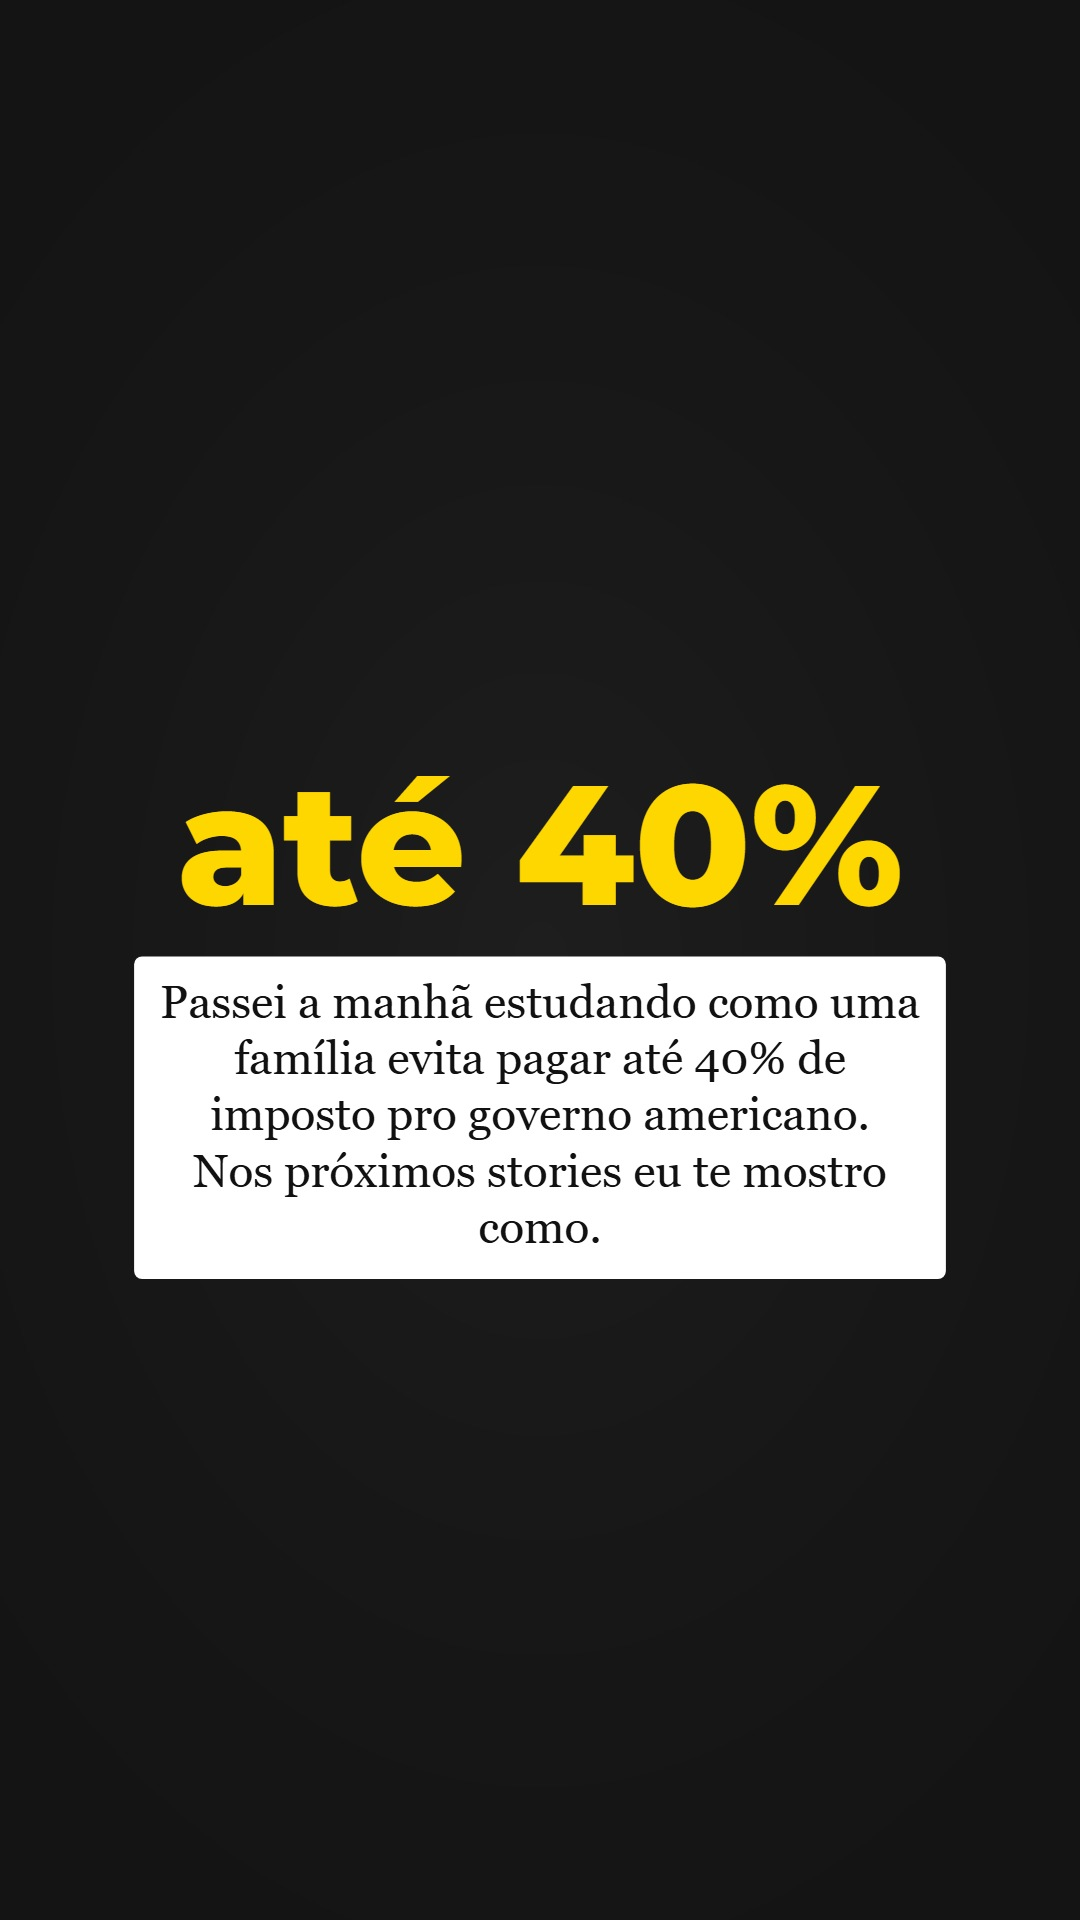
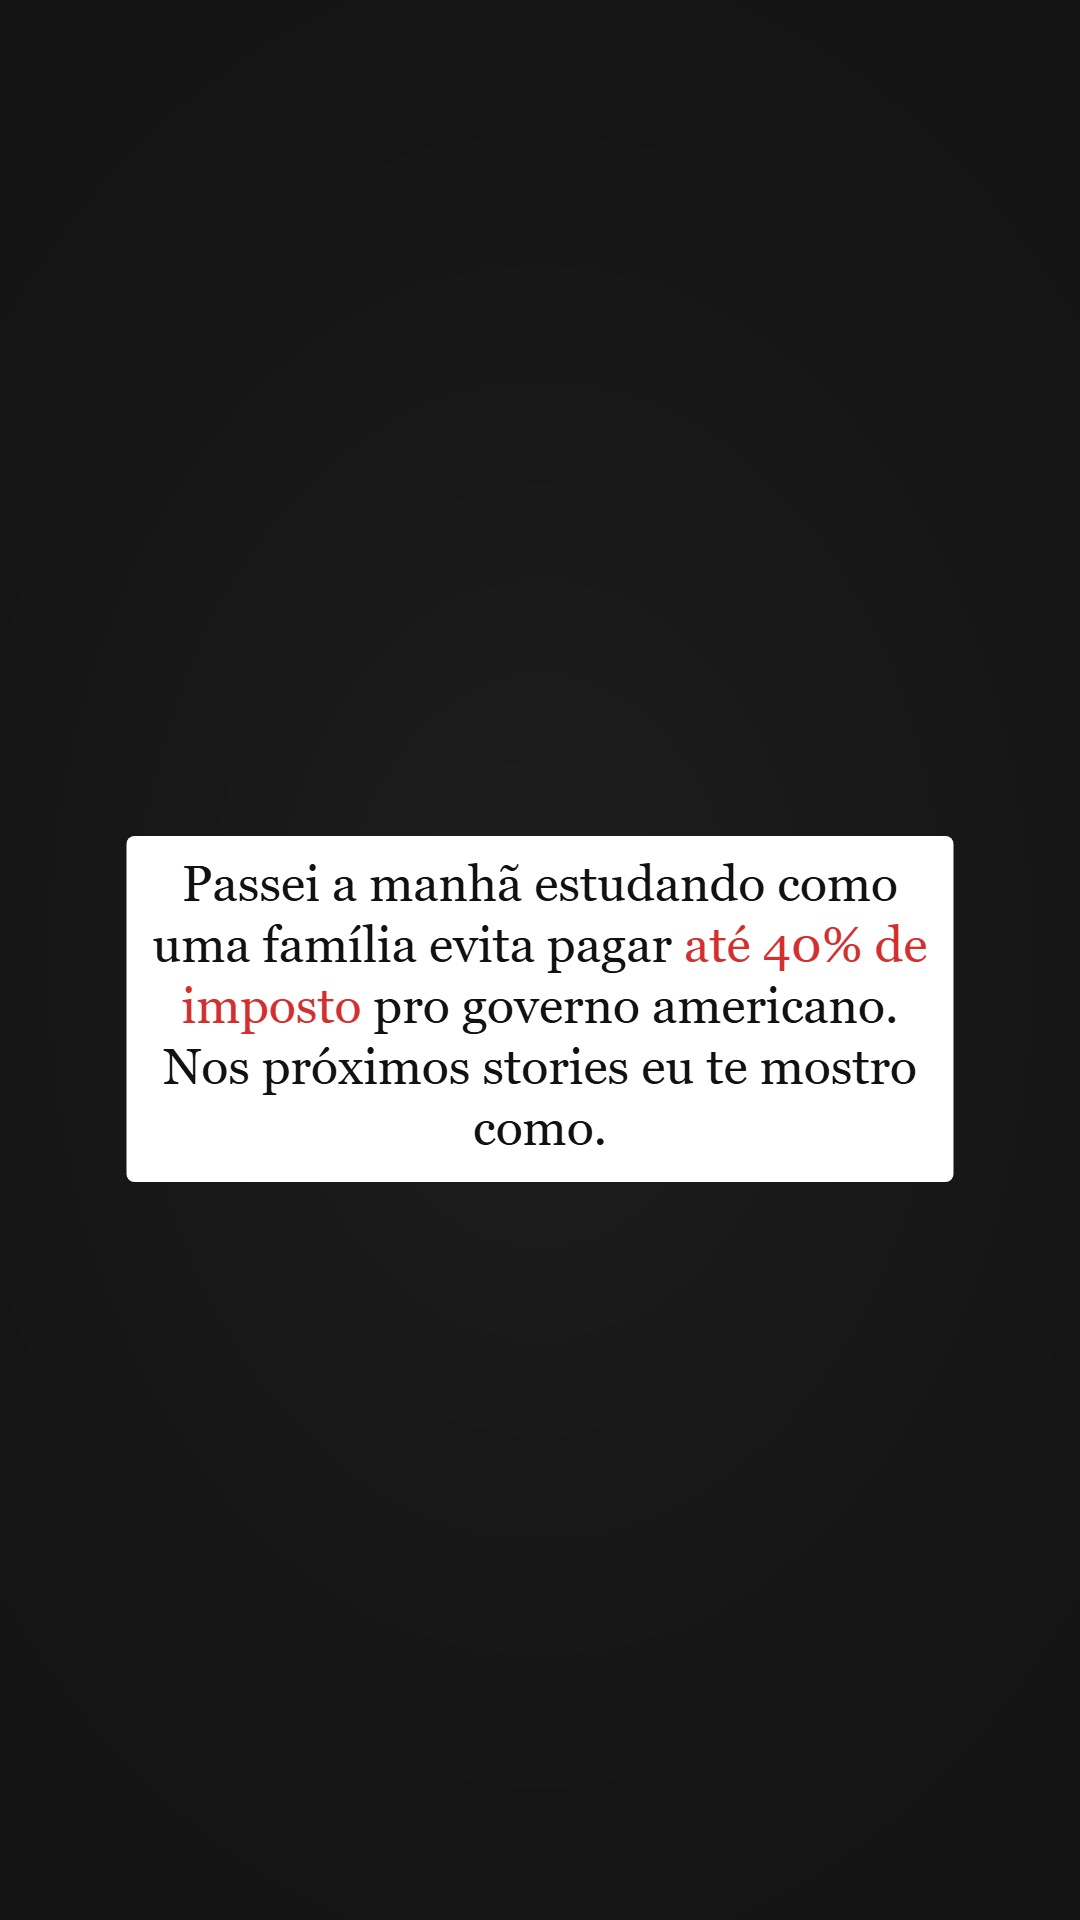
Atualiza o site

Changed region(s): [[0.0917, 0.4062, 0.8861, 0.6875]]

diff --git a/render.js b/render.js
@@ -625,11 +625,58 @@
   // Caixa de texto do Instagram, como ele usa no story: comentário curto em caixa branca, letra serifada,
   // centralizado, em cima do print da notícia ou do gráfico.
   const SERIFA = 'Georgia, "Times New Roman", serif';
+  // 22/10, ele: "tudo no quadradinho branco… se for pra destacar algo, fonte vermelha ou verde nas letras dentro do quadrado".
+  // [[vermelho:até 40%]] / [[verde:TOD]] pintam só aquelas palavras dentro da caixa_story. Devolve parágrafos → palavras →
+  // trechos {t, cor} (cor null = preto). Espaço comum separa palavras; o inseparável do colarNumeros não.
+  const CORES_CAIXA = { vermelho: '#D32F2F', verde: '#2E7D32' };
+  function palavrasCor(texto) {
+    const segs = [], re = /\[\[(vermelho|verde):([^\]]*)\]\]/g;
+    let ult = 0, m;
+    const bruto = String(texto || '');
+    while ((m = re.exec(bruto))) {
+      if (m.index > ult) segs.push({ t: bruto.slice(ult, m.index), cor: null });
+      segs.push({ t: m[2], cor: CORES_CAIXA[m[1]] });
+      ult = re.lastIndex;
+    }
+    if (ult < bruto.length) segs.push({ t: bruto.slice(ult), cor: null });
+    const pars = [[]];
+    let palavra = [];
+    const fecha = () => { if (palavra.length) { pars[pars.length - 1].push(palavra); palavra = []; } };
+    for (const s of segs) {
+      for (const c of colarNumeros(s.t)) {
+        if (c === ' ' || c === '\t') { fecha(); continue; }
+        if (c === '\n') { fecha(); pars.push([]); continue; }
+        const ult2 = palavra[palavra.length - 1];
+        if (ult2 && ult2.cor === s.cor) ult2.t += c; else palavra.push({ t: c, cor: s.cor });
+      }
+    }
+    fecha();
+    return pars;
+  }
+  const textoSemCor = (t) => String(t || '').replace(/\[\[(?:vermelho|verde):([^\]]*)\]\]/g, '$1');
+
   TIPOS.caixa_story = {
     _lay(ctx, el) {
       const w = el.w ?? LARG_UTIL, pad = 26, tam = el.tam ?? 42, lh = 1.22;
       ctx.font = `400 ${tam}px ${SERIFA}`;
       const linhas = [], cabe = w - 2 * pad;
+      if (/\[\[(vermelho|verde):/.test(el.texto || '')) {
+        // com cor: cada linha é uma lista de palavras (trechos coloridos); desenhada palavra a palavra
+        const larg = (pal) => pal.reduce((a, r) => a + ctx.measureText(r.t).width, 0);
+        const esp = ctx.measureText(' ').width;
+        for (const par of palavrasCor(el.texto)) {
+          let atual = [], wa = 0;
+          for (const pal of par) {
+            const wp = larg(pal);
+            if (atual.length && wa + esp + wp > cabe) { linhas.push({ pals: atual, w: wa }); atual = []; wa = 0; }
+            wa += (atual.length ? esp : 0) + wp; atual.push(pal);
+          }
+          if (atual.length) linhas.push({ pals: atual, w: wa });
+        }
+        if (!linhas.length) return { w, larg: 0, pad, tam, lh, linhas, h: 0 };
+        const L = Math.min(w, Math.max(...linhas.map((l) => l.w)) + 2 * pad);
+        return { w, larg: L, pad, tam, lh, linhas, cor: true, esp, h: linhas.length * tam * lh + 2 * pad - tam * (lh - 1) };
+      }
       // \n quebra a linha; "R$ 104" não se separa (colarNumeros usa espaço inseparável, por isso só o espaço comum divide)
       for (const par of colarNumeros(el.texto).split('\n')) {
         let atual = '';
@@ -655,7 +702,21 @@
       if (!L.linhas.length) return;
       ctx.save();
       ctx.fillStyle = '#ffffff'; retRedondo(ctx, x0, el.y, L.larg, L.h, 8); ctx.fill();
-      ctx.fillStyle = '#111111'; ctx.font = `400 ${L.tam}px ${SERIFA}`; ctx.textAlign = 'center'; ctx.textBaseline = 'top';
+      ctx.font = `400 ${L.tam}px ${SERIFA}`; ctx.textBaseline = 'top';
+      if (L.cor) {
+        ctx.textAlign = 'left';
+        L.linhas.forEach((ln, i) => {
+          let x = x0 + (L.larg - ln.w) / 2;
+          const y = el.y + L.pad + i * L.tam * L.lh;
+          ln.pals.forEach((pal, k) => {
+            if (k) x += L.esp;
+            for (const r of pal) { ctx.fillStyle = r.cor || '#111111'; ctx.fillText(r.t, x, y); x += ctx.measureText(r.t).width; }
+          });
+        });
+        ctx.restore();
+        return;
+      }
+      ctx.fillStyle = '#111111'; ctx.textAlign = 'center';
       L.linhas.forEach((ln, i) => ctx.fillText(ln, x0 + L.larg / 2, el.y + L.pad + i * L.tam * L.lh));
       ctx.restore();
     },
@@ -993,7 +1054,7 @@
 
   // Texto da página para leitor de tela (o canvas em si é só desenho).
   function textoDoSlide(slide) {
-    const limpo = (t) => String(t || '').replace(/\*\*|==/g, '').replace(/\s+/g, ' ').trim();
+    const limpo = (t) => textoSemCor(t).replace(/\*\*|==/g, '').replace(/\s+/g, ' ').trim();
     const partes = [];
     for (const e of (slide && slide.elementos) || []) {
       if (e.tipo === 'texto' || e.tipo === 'caixa_story') partes.push(limpo(e.texto));
@@ -1012,5 +1073,6 @@
   }
 
   global.KSRender = { W, H, alturaDe, deslocamentoDe, limiteDe, TEMAS, CAB, MARGEM, LARG_UTIL, TOPO_CONTEUDO, LIMITE_INFERIOR, TIPOS,
-    carregarFontes, preCarregar, desenharSlide, diagramarSlide, renderizarParaCanvas, canvasParaBlob, diagramarTexto, textoDoSlide };
+    carregarFontes, preCarregar, desenharSlide, diagramarSlide, renderizarParaCanvas, canvasParaBlob, diagramarTexto, textoDoSlide,
+    palavrasCor, textoSemCor };
 })(window);
